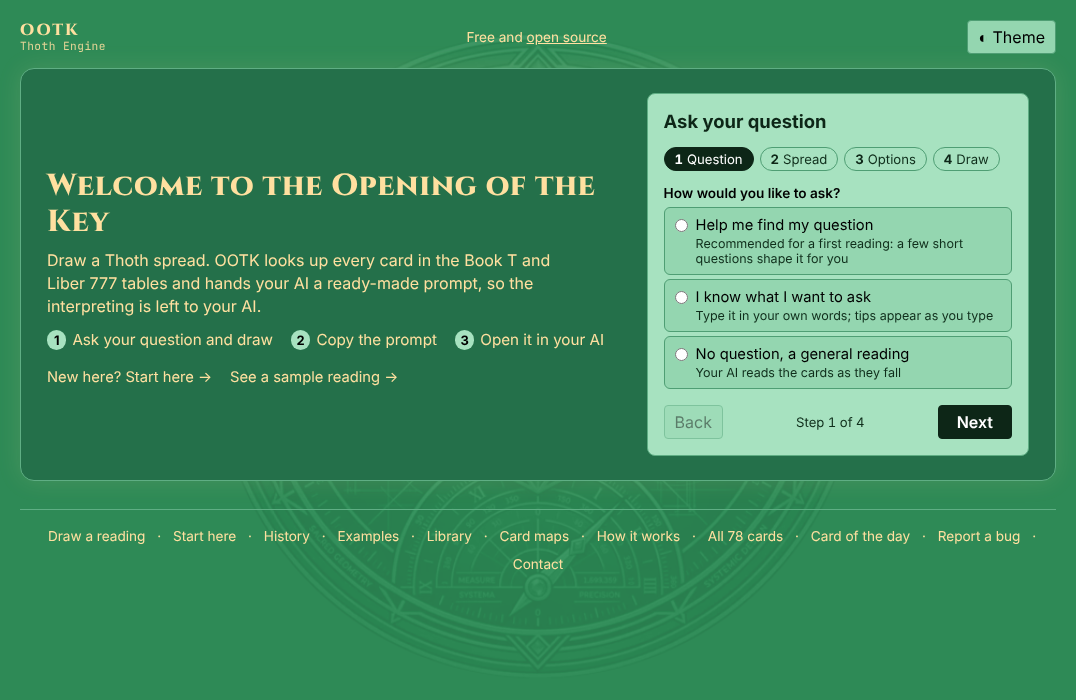
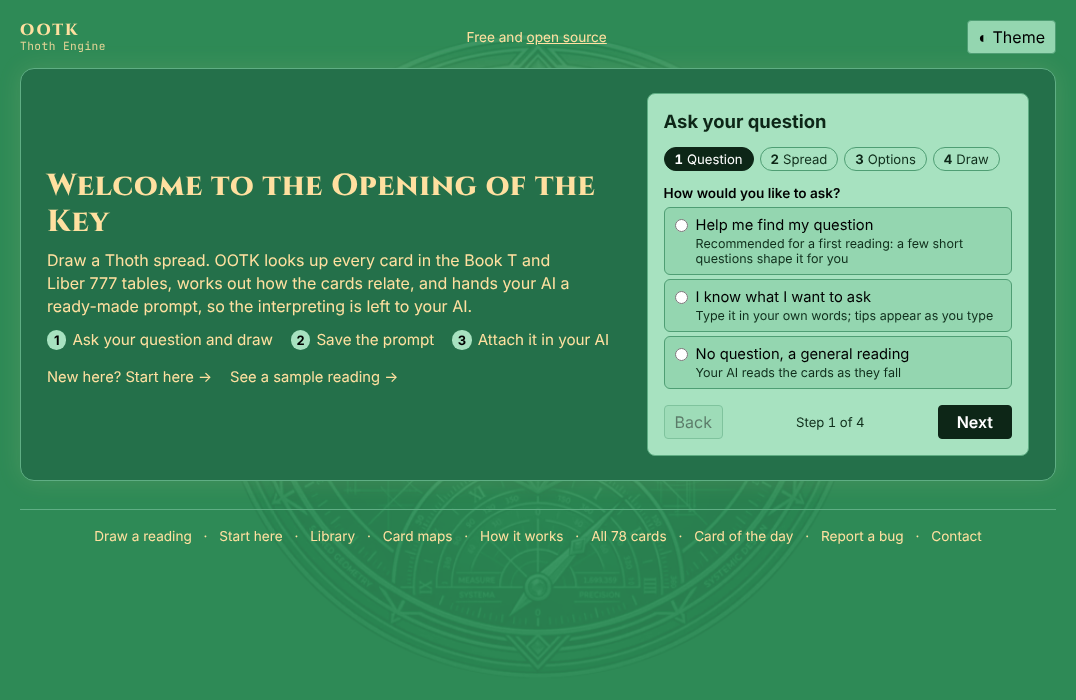
README screenshot: retake the start page
Retaken at the same 1076x700 size from a local run of main, so it shows
the save-and-attach steps and the footer without History and Examples.

Claude-Session: https://claude.ai/code/session_017ncajHesTkbLv45WWGjYR7

Changed region(s): [[0.0307, 0.75, 0.9507, 0.81], [0.0307, 0.39, 0.5214, 0.45], [0.276, 0.48, 0.5827, 0.51]]

diff --git a/README.md b/README.md
@@ -6,7 +6,7 @@
 
 **Try it online: [tarotthoth.com](https://tarotthoth.com)** (free hosting, so the first visit after a quiet spell takes about a minute to wake up). Card images there are Pamela Colman Smith's public-domain 1909 Rider-Waite-Smith art, because the Thoth paintings are copyrighted.
 
-![The start page: the headline "Welcome to the Opening of the Key", the three steps (ask your question and draw, copy the prompt, open it in your AI) and the "Ask your question" wizard on its first step, "How would you like to ask?"](docs/images/front.png)
+![The start page: the headline "Welcome to the Opening of the Key", the three steps (ask your question and draw, save the prompt, attach it in your AI) and the "Ask your question" wizard on its first step, "How would you like to ask?"](docs/images/front.png)
 
 It places the Hebrew letters and the Platonic solids in three-dimensional space with two models: the **Cube of Space** from the Sefer Yetzirah (three mother letters as axes, seven doubles as faces and centre, twelve simples as edges) and **polyhedral dual inversions** (each card's solid and its dual; the cube's dual octahedron has its six corners on the Cube of Space's six directions). The [Method page](https://tarotthoth.com/method#space) explains both and [/maps](https://tarotthoth.com/maps) draws them.
 
